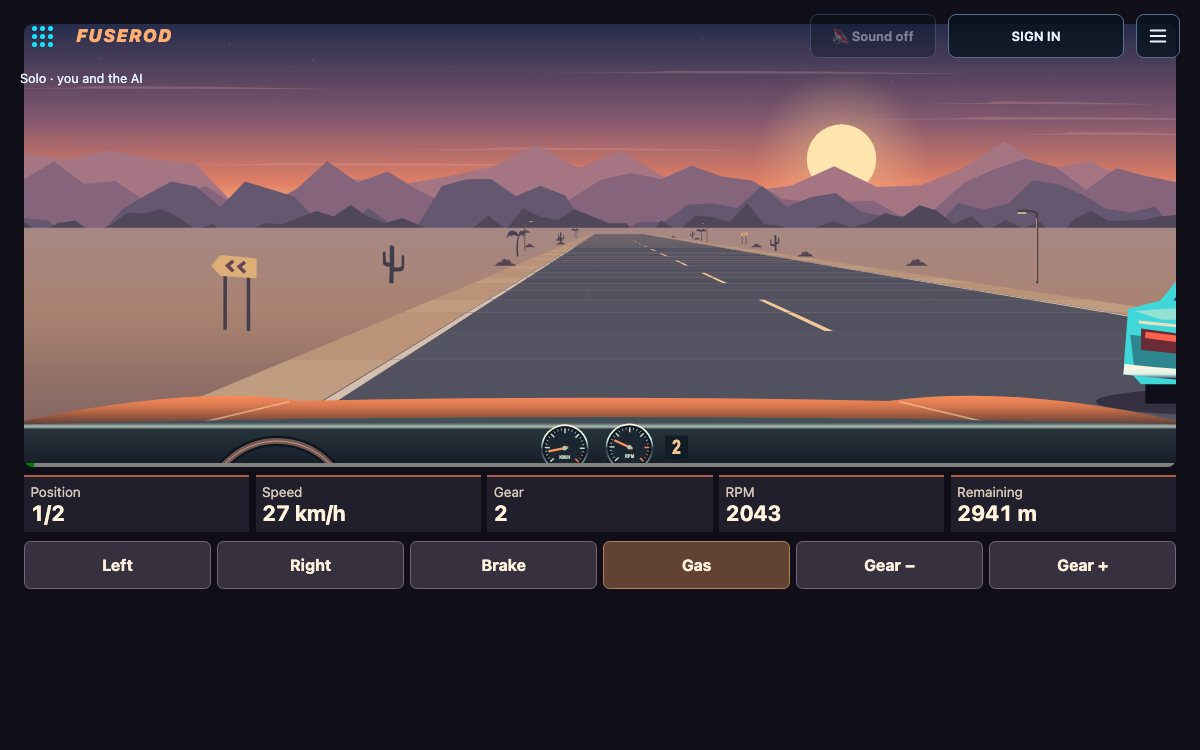
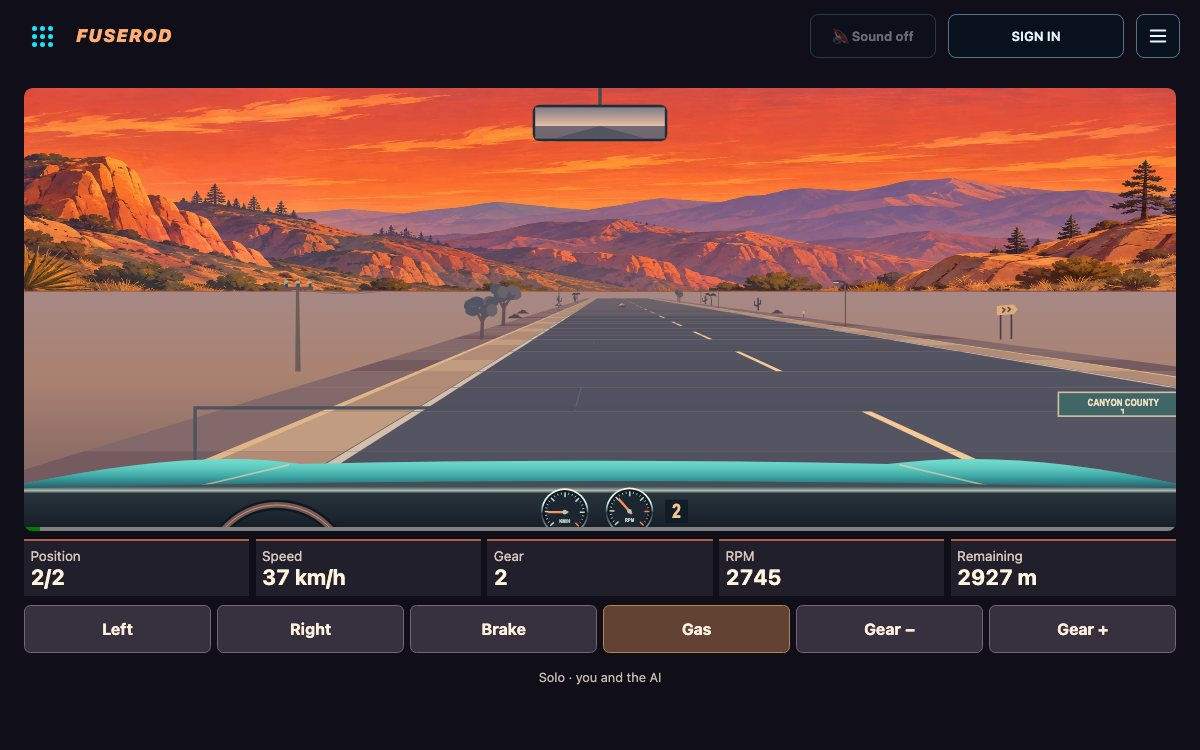
Connect seeded hazards, career outcomes and final gameplay artwork

diff --git a/games/fuserod/src/app/main.ts b/games/fuserod/src/app/main.ts
@@ -5,6 +5,7 @@ import "fuse-ui/portal.css";
 import "fuse-ui/social.css";
 import "fuse-ui/results.css";
 import "./fuserod.css";
+import "../art/cursor.css";
 import {
   createAppPortal,
   createBackLink,
@@ -71,9 +72,8 @@ const url = (search = "") =>
   endpoints.appUrl(
     search + (query.has("mute") ? (search ? "&mute" : "?mute") : ""),
   );
-import { drawScene } from "../art/scenes.js";
-import "../art/cursor.css";
 const app = document.querySelector<HTMLElement>("#app")!;
+app.classList.add("fuserod-pointer");
 const storage = safeStore(() => localStorage),
   names = keys(gameId);
 const campaignStorage = {
@@ -135,7 +135,6 @@ const header = (
   });
 };
 function landing() {
-  app.classList.add("fuserod-pointer");
   const card = createLandingCard({
     title: "FUSEROD",
     tagline:
@@ -281,17 +280,20 @@ function play() {
         socialName: () => social.playerName(undefined) ?? undefined,
       })
     : null;
+  let retrySettlement = () => {};
   const results = createResultsScreen({
     document,
     onBack: leave,
     backText: online ? "Leave" : "Garage",
     onAction: (id) =>
-      id === "garage"
-        ? leave()
-        : runtime.command({
-            type: "action",
-            action: id === "retry" ? "rematch" : "lobby",
-          }),
+      id === "save"
+        ? retrySettlement()
+        : id === "garage"
+          ? leave()
+          : runtime.command({
+              type: "action",
+              action: id === "retry" ? "rematch" : "lobby",
+            }),
   });
   const main = el("main", "", "rod-main");
   if (lobby) main.append(lobby.element);
@@ -354,7 +356,10 @@ function play() {
               ? v.players.filter((p) => !p.watcher)
               : v.racers;
           const entrant = v.racers.find((r) => r.id === me);
-          const active = v.phase === "running" && entrant?.countdown === 0 && !entrant.falseStart;
+          const active =
+            v.phase === "running" &&
+            entrant?.countdown === 0 &&
+            !entrant.falseStart;
           return {
             matchId: v.matchId,
             round: 1,
@@ -399,7 +404,7 @@ function play() {
           display || !frame.players.some((p) => p.id === me && !p.watcher),
       });
       sound.update(frame, me);
-      if (frame.phase === "running") track.render(frame, me,config.automatic);
+      if (frame.phase === "running") track.render(frame, me, config.automatic);
       if (
         final?.phase !== "over" ||
         final.matchId !== frame.matchId ||
@@ -412,21 +417,48 @@ function play() {
       if (resultKey === final.matchId) return;
       resultKey = final.matchId;
       let receipt = "";
+      let saveFailed = false;
       const self = final.racers.find((r) => r.id === me);
       if (challenge && self) {
         const save = settleRace(campaignStorage, challenge.id, {
           won: final.winnerId === me,
           elapsedTicks: self.elapsedTicks,
+          speedingMph:
+            final.policePhase === 4 ? self.speed / 1.609344 : undefined,
           damage: self.broken || self.crashed ? 24 : 2,
         });
         receipt = save.ok ? save.state.receipt : save.error;
+        saveFailed = !save.ok;
+        retrySettlement = () => {
+          resultKey = "";
+          callbacks.state(frame, config);
+        };
       }
       const winner = final.racers.find((r) => r.id === final.winnerId);
-      const incident = final.policePhase === 4 ? "ticket" : self?.crashed ? "wreck" : undefined;
+      const incident =
+        final.policePhase === 4
+          ? "ticket"
+          : self?.crashed
+            ? "wreck"
+            : undefined;
       const picture = el("canvas", "", "rod-story");
-      const ruling = self?.falseStart ? "False start" : self?.breakout ? "Dial-in breakout" : self?.laneFault ? "Lane fault" : self?.broken ? "Engine failure" : incident === "wreck" ? "Crash" : incident === "ticket" ? "Caught by patrol" : "";
+      const ruling = self?.falseStart
+        ? "False start"
+        : self?.breakout
+          ? "Dial-in breakout"
+          : self?.laneFault
+            ? "Lane fault"
+            : self?.broken
+              ? "Engine failure"
+              : incident === "wreck"
+                ? "Crash"
+                : incident === "ticket"
+                  ? "Caught by patrol"
+                  : "";
       results.show({
-        ...(incident ? { sections: [{ title: ruling, content: [picture] }] } : {}),
+        ...(incident
+          ? { sections: [{ title: ruling, content: [picture] }] }
+          : {}),
         game: "FUSEROD",
         headline: winner
           ? winner.id === me
@@ -459,7 +491,9 @@ function play() {
       if (incident) drawScene(picture, incident, appearance);
       results.update({
         actions: !online
-          ? [{ id: "garage", label: "Return to garage", primary: true }]
+          ? saveFailed
+            ? [{ id: "save", label: "Retry saving result", primary: true }]
+            : [{ id: "garage", label: "Return to garage", primary: true }]
           : host && !display
             ? [
                 { id: "lobby", label: "Room" },

diff --git a/games/fuserod/src/app/race-screen.ts b/games/fuserod/src/app/race-screen.ts
@@ -102,7 +102,7 @@ export function raceScreen() {
       });
       paintRace(canvas, { ...newer, racers }, me, car, rival);
     },
-    render(frame: FuserodView, me: string, automatic:boolean) {
+    render(frame: FuserodView, me: string, automatic: boolean) {
       const driver = frame.racers.find((r) => r.id === me) ?? frame.racers[0];
       if (!driver) return;
       light.hidden =
@@ -125,14 +125,24 @@ export function raceScreen() {
                 : String(Math.ceil(driver.countdown / 20));
       progress.max = frame.finishDistance;
       progress.value = Math.min(frame.finishDistance, driver.distance);
-      const sanctioned=frame.variant==="timed" || frame.variant==="grudge";
-      const cue=driver.countdown>0 ? sanctioned?"Stage on the brake · wait for green":"Get ready"
-        : frame.policePhase===3?"Patrol pursuit"
-        : driver.gear===0 && !automatic?"Shift into first"
-        : driver.rpm>=4450 && !automatic?"Shift up"
-        : driver.elapsedTicks<20?"Green · go":"";
-      callout.hidden=!cue;
-      if(callout.textContent!==cue)callout.textContent=cue;
+      const sanctioned =
+        frame.variant === "timed" || frame.variant === "grudge";
+      const cue =
+        driver.countdown > 0
+          ? sanctioned
+            ? "Stage on the brake · wait for green"
+            : "Get ready"
+          : frame.policePhase === 3
+            ? "Patrol pursuit"
+            : driver.gear === 0 && !automatic
+              ? "Shift into first"
+              : driver.rpm >= 4450 && !automatic
+                ? "Shift up"
+                : driver.elapsedTicks < 20
+                  ? "Green · go"
+                  : "";
+      callout.hidden = !cue;
+      if (callout.textContent !== cue) callout.textContent = cue;
       const values = [
         driver.place + "/" + frame.racers.length,
         Math.round(driver.speed) + " km/h",
@@ -141,7 +151,7 @@ export function raceScreen() {
         Math.max(0, Math.ceil(frame.finishDistance - driver.distance)) + " m",
       ];
       instruments.forEach((node, i) => {
-        if(node.textContent!==values[i])node.textContent = values[i]!;
+        if (node.textContent !== values[i]) node.textContent = values[i]!;
       });
     },
   };

diff --git a/games/fuserod/src/app/fuserod.css b/games/fuserod/src/app/fuserod.css
@@ -1,4 +1,8 @@
-.rod-story { display:block; width:100%; height:clamp(125px,24vh,240px); }
+.rod-story {
+  display: block;
+  width: 100%;
+  height: clamp(125px, 24vh, 240px);
+}
 .fuserod-page {
   margin: 0;
   background: #100f19;
@@ -51,16 +55,16 @@
   border-radius: 0.55rem;
 }
 .rod-callout {
-  position:absolute;
-  top:.75rem;
-  left:50%;
-  transform:translateX(-50%);
-  padding:.35rem .7rem;
-  border-radius:.35rem;
-  background:#161621dc;
-  color:#ffe8be;
-  white-space:nowrap;
-  font:700 clamp(.68rem,1.4vw,1rem) system-ui;
+  position: absolute;
+  top: 0.75rem;
+  left: 50%;
+  transform: translateX(-50%);
+  padding: 0.35rem 0.7rem;
+  border-radius: 0.35rem;
+  background: #161621dc;
+  color: #ffe8be;
+  white-space: nowrap;
+  font: 700 clamp(0.68rem, 1.4vw, 1rem) system-ui;
 }
 .rod-canvas {
   display: block;

diff --git a/games/fuserod/src/app/attract.ts b/games/fuserod/src/app/attract.ts
@@ -15,7 +15,10 @@ export function createAttract(host: HTMLElement) {
     advance: game.advance,
     render() {
       const frame = game.view();
-      if (frame.tick < 155) { drawScene(canvas, "title"); return; }
+      if (frame.tick < 155) {
+        drawScene(canvas, "title");
+        return;
+      }
       paintRace(canvas, frame, frame.racers[0]?.id ?? "");
     },
     dispose() {

diff --git a/tests/fixtures/game-menu-expectations.ts b/tests/fixtures/game-menu-expectations.ts
@@ -63,6 +63,7 @@ export const gameMenus: Readonly<Record<string, GameMenu>> = {
       ["slider", /visual offset/i],
     ],
   },
+  fuserod: sharedRadio,
   fusero: {
     radio: true,
     controls: [...sharedRadio.controls, ["combobox", /keyboard preset/i]],
